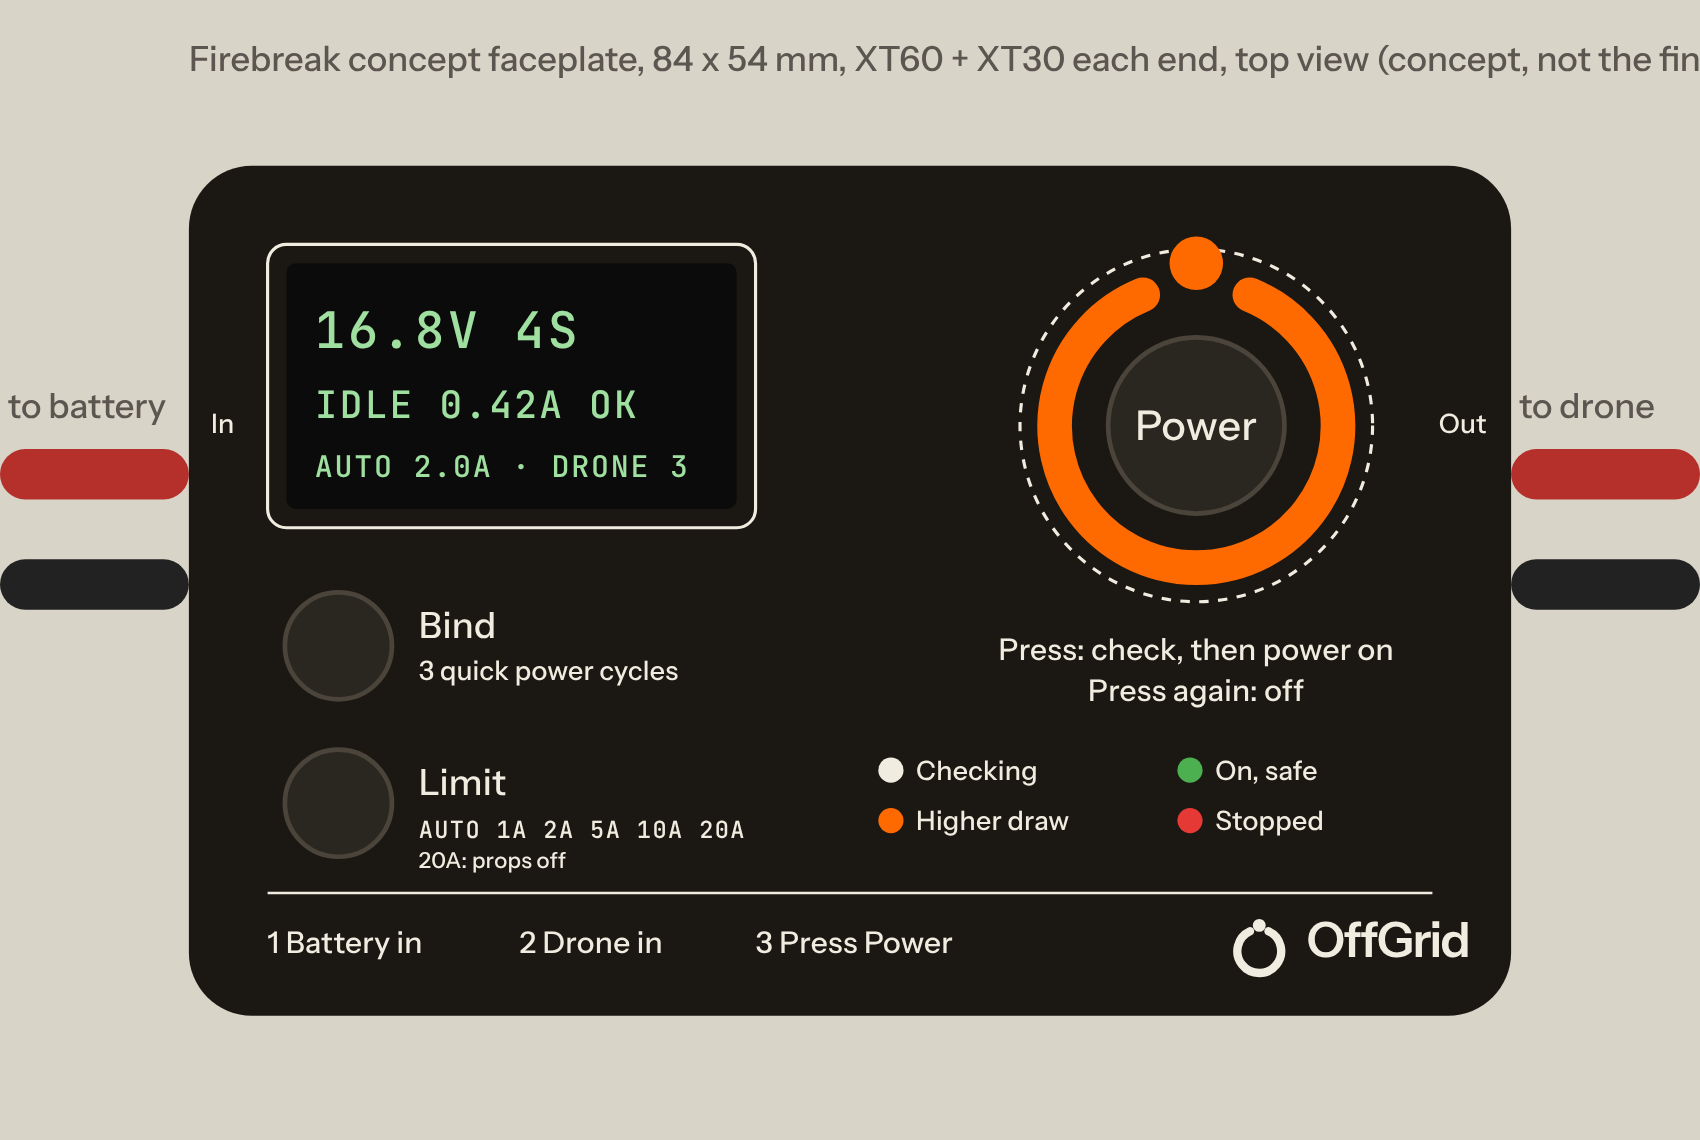
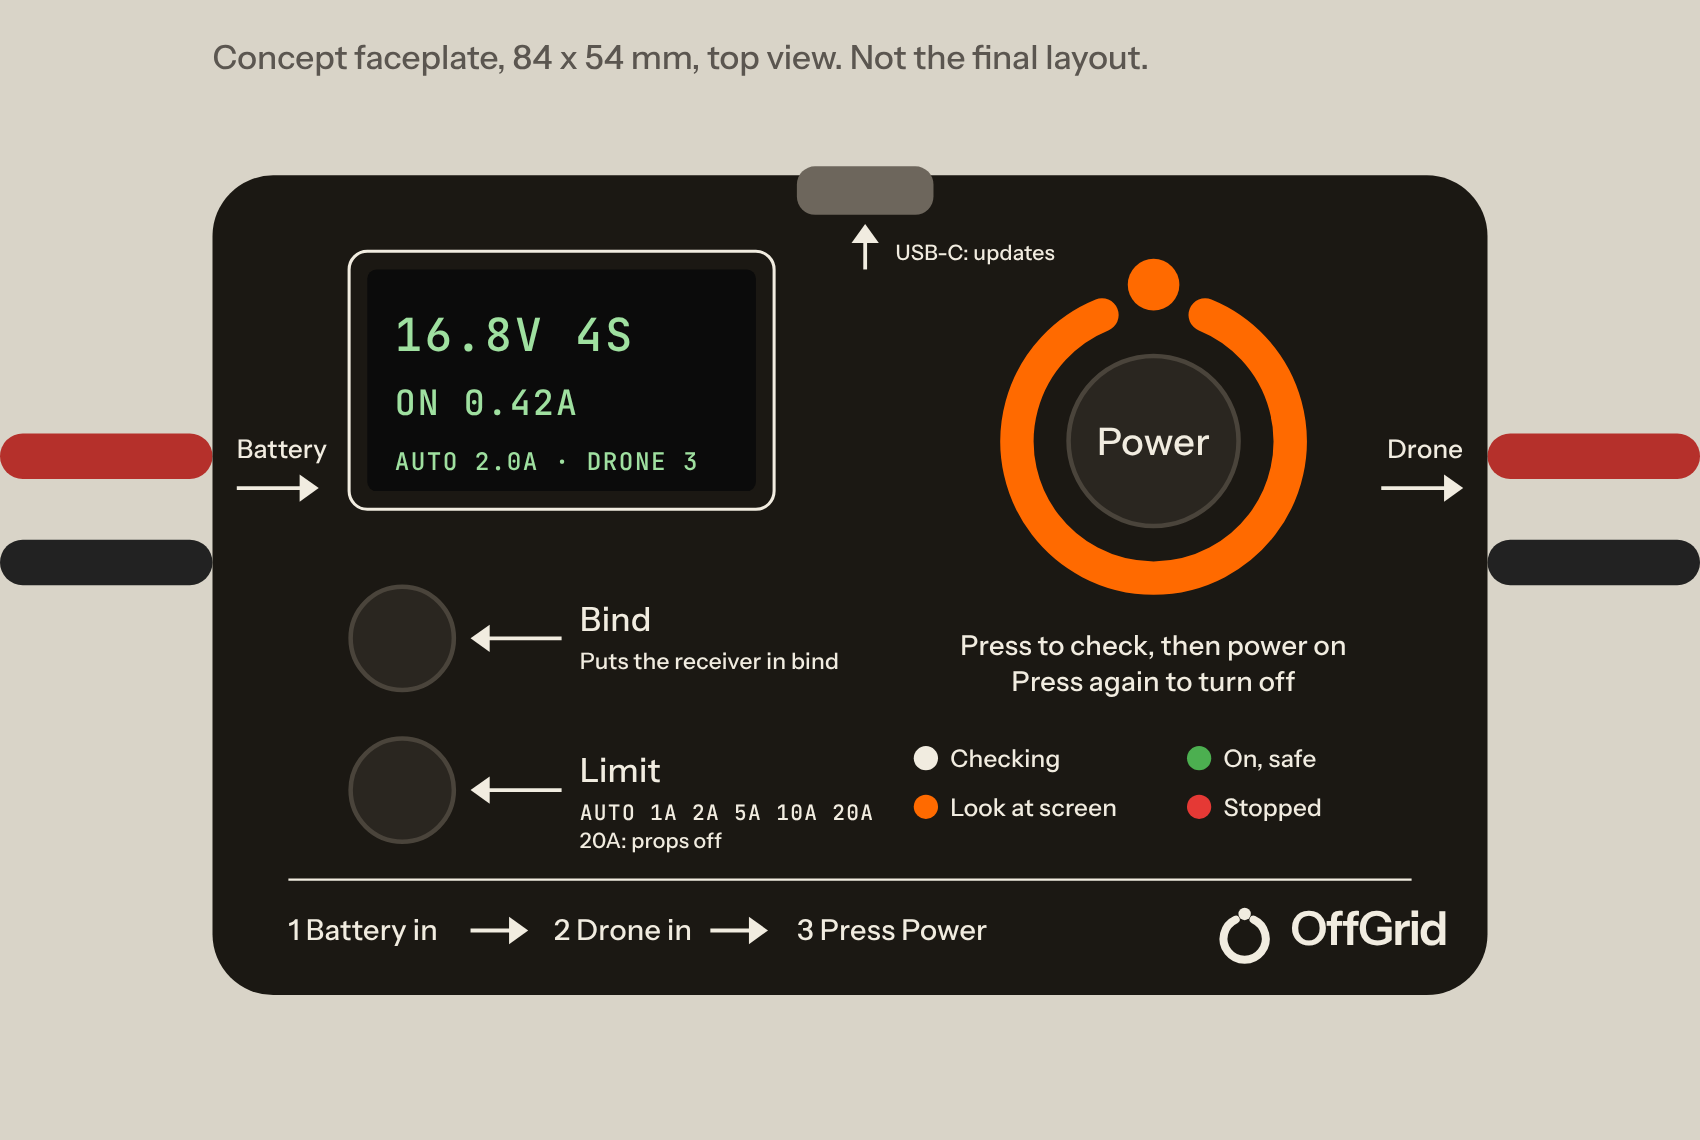
firebreak: arrows on the face, one brand arrow for every instruction
Battery in and drone out at the ends, label-to-button arrows for Bind and
Limit, USB-C on the back edge, the three steps joined by arrows. The
concept render is now generated by images/concept_faceplate.py.

Claude-Session: https://claude.ai/code/session_01SBnFJLvm1wBa1jZy4RXnma

diff --git a/firebreak/images/concept-faceplate.html b/firebreak/images/concept-faceplate.html
@@ -1,76 +1,55 @@
 <!doctype html>
 <html><head><meta charset="utf-8">
-<!-- Concept render. Fonts come from ridge-3/fonts (branch claude/fpv-stack-3in). Render: chromium --headless --screenshot -->
 <style>
-@font-face{font-family:IS;src:url(../../ridge-3/fonts/InstrumentSans-VariableFont.ttf);}
-@font-face{font-family:JB;src:url(../../ridge-3/fonts/JetBrainsMono-VariableFont.ttf);}
+@font-face{font-family:IS;src:url(/tmp/claude-0/-home-user-offgrid-hardware/bb4d9657-83a6-5d9a-b4a3-ba3efc9cb84f/scratchpad/ref/InstrumentSans-VariableFont.ttf);}
+@font-face{font-family:JB;src:url(/tmp/claude-0/-home-user-offgrid-hardware/bb4d9657-83a6-5d9a-b4a3-ba3efc9cb84f/scratchpad/ref/JetBrainsMono-VariableFont.ttf);}
 html,body{margin:0;background:#d9d4c8;}
 svg{display:block}
-.s{font-family:IS;font-weight:500;fill:#F1ECE0;letter-spacing:.01em}
-.m{font-family:JB;font-weight:500;fill:#F1ECE0;letter-spacing:.06em}
-.dim{font-family:IS;font-weight:500;fill:#5b5650;font-size:2.2px}
+.s{font-family:IS;letter-spacing:.01em}
+.m{font-family:JB;letter-spacing:.06em}
 </style></head><body>
-<!-- 1 user unit = 1 mm. Board 84 x 54 mm, XT60 + XT30 each end, seen from above; battery enters left, drone leaves right -->
-<svg width="1700" height="1150" viewBox="-12 -10 108 72">
-  <!-- cables, for orientation only -->
-  <rect x="-12" y="18" width="12" height="3.2" rx="1.6" fill="#b5302b"/>
-  <rect x="-12" y="25" width="12" height="3.2" rx="1.6" fill="#222"/>
-  <rect x="84" y="18" width="12" height="3.2" rx="1.6" fill="#b5302b"/>
-  <rect x="84" y="25" width="12" height="3.2" rx="1.6" fill="#222"/>
-  <text class="dim" x="-11.5" y="16">to battery</text>
-  <text class="dim" x="84.5" y="16">to drone</text>
-  <text class="dim" x="0" y="-6">Firebreak concept faceplate, 84 x 54 mm, XT60 + XT30 each end, top view (concept, not the final layout)</text>
-
-  <!-- board -->
-  <rect x="0" y="0" width="84" height="54" rx="4" fill="#1B1813"/>
-
-  <!-- display window -->
-  <rect x="5" y="5" width="31" height="18" rx="1.2" fill="none" stroke="#F1ECE0" stroke-width="0.2"/>
-  <rect x="6.2" y="6.2" width="28.6" height="15.6" rx="0.6" fill="#0b0b0b"/>
-  <text class="m" x="8" y="11.6" font-size="3.2" style="fill:#9fe0a0">16.8V  4S</text>
-  <text class="m" x="8" y="16" font-size="2.4" style="fill:#9fe0a0">IDLE 0.42A  OK</text>
-  <text class="m" x="8" y="19.8" font-size="1.9" style="fill:#9fe0a0">AUTO 2.0A · DRONE 3</text>
-
-  <!-- Bind button -->
-  <circle cx="9.5" cy="30.5" r="3.4" fill="#2a2620" stroke="#4a443b" stroke-width="0.3"/>
-  <text class="s" x="14.6" y="30" font-size="2.3">Bind</text>
-  <text class="s" x="14.6" y="32.7" font-size="1.7">3 quick power cycles</text>
-  <!-- Limit button -->
-  <circle cx="9.5" cy="40.5" r="3.4" fill="#2a2620" stroke="#4a443b" stroke-width="0.3"/>
-  <text class="s" x="14.6" y="40" font-size="2.3">Limit</text>
-  <text class="m" x="14.6" y="42.7" font-size="1.5">AUTO 1A 2A 5A 10A 20A</text><text class="s" x="14.6" y="44.6" font-size="1.4">20A: props off</text>
-
-  <!-- Beacon Ring power button -->
-  <g transform="translate(64,16.5)">
-    <circle r="11.2" fill="none" stroke="#F1ECE0" stroke-width="0.2" stroke-dasharray="0.6 0.6"/>
-    <path d="M 3.4 -8.3 A 9 9 0 1 1 -3.4 -8.3" fill="none" stroke="#FF6A00" stroke-width="2.2" stroke-linecap="round"/>
-    <circle cx="0" cy="-10.3" r="1.7" fill="#FF6A00"/>
-    <circle r="5.6" fill="#2a2620" stroke="#4a443b" stroke-width="0.3"/>
-    <text class="s" x="0" y="0.9" font-size="2.6" text-anchor="middle">Power</text>
-  </g>
-  <text class="s" x="64" y="31.4" font-size="1.9" text-anchor="middle">Press: check, then power on</text>
-  <text class="s" x="64" y="34" font-size="1.9" text-anchor="middle">Press again: off</text>
-
-  <!-- ring colour legend -->
-  <g font-size="1.7">
-    <circle cx="44.6" cy="38.4" r="0.8" fill="#F1ECE0"/><text class="s" x="46.2" y="39">Checking</text>
-    <circle cx="63.6" cy="38.4" r="0.8" fill="#4caf50"/><text class="s" x="65.2" y="39">On, safe</text>
-    <circle cx="44.6" cy="41.6" r="0.8" fill="#FF6A00"/><text class="s" x="46.2" y="42.2">Higher draw</text>
-    <circle cx="63.6" cy="41.6" r="0.8" fill="#e53935"/><text class="s" x="65.2" y="42.2">Stopped</text>
-  </g>
-
-  <!-- steps -->
-  <line x1="5" y1="46.2" x2="79" y2="46.2" stroke="#F1ECE0" stroke-width="0.15"/>
-  <text class="s" x="5" y="50" font-size="1.9">1  Battery in</text><text class="s" x="21" y="50" font-size="1.9">2  Drone in</text><text class="s" x="36" y="50" font-size="1.9">3  Press Power</text>
-
-  <!-- lockup -->
-  <g transform="translate(65.6,47.3) scale(0.024)">
-    <path d="M124.5 55.4 A58 58 0 1 1 75.5 55.4" fill="none" stroke="#F1ECE0" stroke-width="22" stroke-linecap="round"/>
-    <circle cx="100" cy="40" r="17" fill="#F1ECE0"/>
-  </g>
-  <text x="71" y="50.3" font-family="IS" font-weight="600" font-size="3.1" fill="#F1ECE0" letter-spacing="-0.1">OffGrid</text>
-
-  <text class="s" x="1.4" y="17" font-size="1.7">In</text>
-  <text class="s" x="79.4" y="17" font-size="1.7">Out</text>
-</svg>
-</body></html>
+<svg width="1700" height="1140" viewBox="-14 -11 112 74">
+<text x="0" y="-7" font-family="IS" font-weight="500" font-size="2.2" fill="#5b5650">Concept faceplate, 84 x 54 mm, top view. Not the final layout.</text>
+<rect x="-14" y="17" width="14" height="3" rx="1.5" fill="#b5302b"/><rect x="-14" y="24" width="14" height="3" rx="1.5" fill="#222"/><rect x="84.0" y="17" width="14" height="3" rx="1.5" fill="#b5302b"/><rect x="84.0" y="24" width="14" height="3" rx="1.5" fill="#222"/>
+<rect x="0" y="0" width="84.0" height="54.0" rx="4" fill="#1B1813"/>
+<text class="s" x="1.6" y="18.6" font-size="1.7" text-anchor="start" font-weight="500" style="fill:#F1ECE0">Battery</text>
+<line x1="1.600" y1="20.600" x2="5.866" y2="20.600" stroke="#F1ECE0" stroke-width="0.25" stroke-linecap="butt"/><polygon points="7.000,20.600 5.740,21.500 5.740,19.700" fill="#F1ECE0"/>
+<text class="s" x="82.4" y="18.6" font-size="1.7" text-anchor="end" font-weight="500" style="fill:#F1ECE0">Drone</text>
+<line x1="77.000" y1="20.600" x2="81.266" y2="20.600" stroke="#F1ECE0" stroke-width="0.25" stroke-linecap="butt"/><polygon points="82.400,20.600 81.140,21.500 81.140,19.700" fill="#F1ECE0"/>
+<rect x="38.5" y="-0.6" width="9" height="3.2" rx="1.2" fill="#6d665c"/>
+<line x1="43.000" y1="6.200" x2="43.000" y2="4.334" stroke="#F1ECE0" stroke-width="0.25" stroke-linecap="butt"/><polygon points="43.000,3.200 43.900,4.460 42.100,4.460" fill="#F1ECE0"/>
+<text class="s" x="45.0" y="5.6" font-size="1.4" text-anchor="start" font-weight="500" style="fill:#F1ECE0">USB-C: updates</text>
+<rect x="9" y="5" width="28" height="17" rx="1.2" fill="none" stroke="#F1ECE0" stroke-width="0.2"/>
+<rect x="10.2" y="6.2" width="25.6" height="14.6" rx="0.6" fill="#0b0b0b"/>
+<text class="m" x="12" y="11.6" font-size="3.0" text-anchor="start" font-weight="500" style="fill:#9fe0a0">16.8V  4S</text>
+<text class="m" x="12" y="15.8" font-size="2.3" text-anchor="start" font-weight="500" style="fill:#9fe0a0">ON  0.42A</text>
+<text class="m" x="12" y="19.4" font-size="1.6" text-anchor="start" font-weight="500" style="fill:#9fe0a0">AUTO 2.0A · DRONE 3</text>
+<g transform="translate(62.0,17.5)"><path d="M 3.4 -8.3 A 9 9 0 1 1 -3.4 -8.3" fill="none" stroke="#FF6A00" stroke-width="2.2" stroke-linecap="round"/><circle cx="0" cy="-10.3" r="1.7" fill="#FF6A00"/><circle r="5.6" fill="#2a2620" stroke="#4a443b" stroke-width="0.3"/><text class="s" x="0" y="0.9" font-size="2.5" text-anchor="middle" font-weight="500" style="fill:#F1ECE0">Power</text></g>
+<text class="s" x="62.0" y="31.6" font-size="1.8" text-anchor="middle" font-weight="500" style="fill:#F1ECE0">Press to check, then power on</text>
+<text class="s" x="62.0" y="34.0" font-size="1.8" text-anchor="middle" font-weight="500" style="fill:#F1ECE0">Press again to turn off</text>
+<circle cx="12.5" cy="30.5" r="3.4" fill="#2a2620" stroke="#4a443b" stroke-width="0.3"/>
+<line x1="23.000" y1="30.500" x2="18.134" y2="30.500" stroke="#F1ECE0" stroke-width="0.25" stroke-linecap="butt"/><polygon points="17.000,30.500 18.260,29.600 18.260,31.400" fill="#F1ECE0"/>
+<text class="s" x="24.2" y="30.0" font-size="2.2" text-anchor="start" font-weight="500" style="fill:#F1ECE0">Bind</text>
+<text class="s" x="24.2" y="32.5" font-size="1.5" text-anchor="start" font-weight="500" style="fill:#F1ECE0">Puts the receiver in bind</text>
+<circle cx="12.5" cy="40.5" r="3.4" fill="#2a2620" stroke="#4a443b" stroke-width="0.3"/>
+<line x1="23.000" y1="40.500" x2="18.134" y2="40.500" stroke="#F1ECE0" stroke-width="0.25" stroke-linecap="butt"/><polygon points="17.000,40.500 18.260,39.600 18.260,41.400" fill="#F1ECE0"/>
+<text class="s" x="24.2" y="40.0" font-size="2.2" text-anchor="start" font-weight="500" style="fill:#F1ECE0">Limit</text>
+<text class="m" x="24.2" y="42.5" font-size="1.4" text-anchor="start" font-weight="500" style="fill:#F1ECE0">AUTO 1A 2A 5A 10A 20A</text>
+<text class="s" x="24.2" y="44.3" font-size="1.4" text-anchor="start" font-weight="500" style="fill:#F1ECE0">20A: props off</text>
+<circle cx="47.0" cy="38.4" r="0.8" fill="#F1ECE0"/>
+<text class="s" x="48.6" y="39.0" font-size="1.6" text-anchor="start" font-weight="500" style="fill:#F1ECE0">Checking</text>
+<circle cx="65.0" cy="38.4" r="0.8" fill="#4caf50"/>
+<text class="s" x="66.6" y="39.0" font-size="1.6" text-anchor="start" font-weight="500" style="fill:#F1ECE0">On, safe</text>
+<circle cx="47.0" cy="41.6" r="0.8" fill="#FF6A00"/>
+<text class="s" x="48.6" y="42.2" font-size="1.6" text-anchor="start" font-weight="500" style="fill:#F1ECE0">Look at screen</text>
+<circle cx="65.0" cy="41.6" r="0.8" fill="#e53935"/>
+<text class="s" x="66.6" y="42.2" font-size="1.6" text-anchor="start" font-weight="500" style="fill:#F1ECE0">Stopped</text>
+<line x1="5" y1="46.4" x2="79.0" y2="46.4" stroke="#F1ECE0" stroke-width="0.15"/>
+<text class="s" x="5.0" y="50.4" font-size="1.9" text-anchor="start" font-weight="500" style="fill:#F1ECE0">1  Battery in</text>
+<text class="s" x="22.5" y="50.4" font-size="1.9" text-anchor="start" font-weight="500" style="fill:#F1ECE0">2  Drone in</text>
+<text class="s" x="38.5" y="50.4" font-size="1.9" text-anchor="start" font-weight="500" style="fill:#F1ECE0">3  Press Power</text>
+<line x1="17.000" y1="49.750" x2="19.666" y2="49.750" stroke="#F1ECE0" stroke-width="0.25" stroke-linecap="butt"/><polygon points="20.800,49.750 19.540,50.650 19.540,48.850" fill="#F1ECE0"/>
+<line x1="32.800" y1="49.750" x2="35.466" y2="49.750" stroke="#F1ECE0" stroke-width="0.25" stroke-linecap="butt"/><polygon points="36.600,49.750 35.340,50.650 35.340,48.850" fill="#F1ECE0"/>
+<g transform="translate(65.6,47.7) scale(0.024)"><path d="M124.5 55.4 A58 58 0 1 1 75.5 55.4" fill="none" stroke="#F1ECE0" stroke-width="22" stroke-linecap="round"/><circle cx="100" cy="40" r="17" fill="#F1ECE0"/></g>
+<text x="71" y="50.7" font-family="IS" font-weight="600" font-size="3.1" fill="#F1ECE0" letter-spacing="-0.1">OffGrid</text>
+</svg></body></html>

diff --git a/firebreak/images/concept_faceplate.py b/firebreak/images/concept_faceplate.py
@@ -1,0 +1,156 @@
+"""Concept render of the faceplate: writes concept-faceplate.html, then
+renders it to concept-faceplate.png with headless Chromium.
+
+A sketch of what the silkscreen says and where, in the brand's colours and
+type. It is not the board: the final layout comes from the generator.
+
+    python3 concept_faceplate.py [path/to/chromium]
+
+Fonts: ridge-3/fonts (branch claude/fpv-stack-3in), looked up beside this
+repository's root or in FONTS_DIR.
+"""
+import os
+import subprocess
+import sys
+
+HERE = os.path.dirname(os.path.abspath(__file__))
+FONTS = os.environ.get('FONTS_DIR', os.path.join(HERE, '..', '..', 'ridge-3', 'fonts'))
+
+PITCH, BONE, EMBER = '#1B1813', '#F1ECE0', '#FF6A00'
+W, H = 84.0, 54.0                     # board, mm
+
+# The brand arrow (ridge-3/src/brand.py arrow_mm): a flat 0.25 mm shaft and
+# a solid head 0.9 mm each side of the shaft, 1.26 mm long.  One arrow, the
+# same everywhere it is printed, so it always reads the same.
+SHAFT, HEAD = 0.25, 0.9
+HEAD_L = HEAD * 1.4
+
+
+def arrow(x0, y0, x1, y1, colour=BONE):
+    """Brand arrow from (x0, y0) to its tip at (x1, y1)."""
+    import math
+    d = math.hypot(x1 - x0, y1 - y0)
+    ux, uy = (x1 - x0) / d, (y1 - y0) / d
+    px, py = -uy, ux
+    bx, by = x1 - ux * HEAD_L, y1 - uy * HEAD_L
+    sx, sy = x1 - ux * HEAD_L * 0.9, y1 - uy * HEAD_L * 0.9
+    shaft = (f'<line x1="{x0:.3f}" y1="{y0:.3f}" x2="{sx:.3f}" y2="{sy:.3f}" '
+             f'stroke="{colour}" stroke-width="{SHAFT}" stroke-linecap="butt"/>')
+    head = (f'<polygon points="{x1:.3f},{y1:.3f} {bx + px * HEAD:.3f},{by + py * HEAD:.3f} '
+            f'{bx - px * HEAD:.3f},{by - py * HEAD:.3f}" fill="{colour}"/>')
+    return shaft + head
+
+
+def text(x, y, s, size, mono=False, anchor='start', colour=BONE, weight=500):
+    cls = 'm' if mono else 's'
+    return (f'<text class="{cls}" x="{x}" y="{y}" font-size="{size}" text-anchor="{anchor}" '
+            f'font-weight="{weight}" style="fill:{colour}">{s}</text>')
+
+
+def button(cx, cy, r):
+    return (f'<circle cx="{cx}" cy="{cy}" r="{r}" fill="#2a2620" stroke="#4a443b" stroke-width="0.3"/>')
+
+
+def face():
+    o = []
+    # the board
+    o.append(f'<rect x="0" y="0" width="{W}" height="{H}" rx="4" fill="{PITCH}"/>')
+
+    # -- the power path, edge to edge: Battery -> | -> Drone ------------------
+    o.append(text(1.6, 18.6, 'Battery', 1.7))
+    o.append(arrow(1.6, 20.6, 7.0, 20.6))
+    o.append(text(W - 1.6, 18.6, 'Drone', 1.7, anchor='end'))
+    o.append(arrow(W - 7.0, 20.6, W - 1.6, 20.6))
+
+    # -- USB-C on the back edge -------------------------------------------------
+    o.append(f'<rect x="38.5" y="-0.6" width="9" height="3.2" rx="1.2" fill="#6d665c"/>')
+    o.append(arrow(43.0, 6.2, 43.0, 3.2))
+    o.append(text(45.0, 5.6, 'USB-C: updates', 1.4))
+
+    # -- screen ----------------------------------------------------------------
+    o.append(f'<rect x="9" y="5" width="28" height="17" rx="1.2" fill="none" stroke="{BONE}" stroke-width="0.2"/>')
+    o.append('<rect x="10.2" y="6.2" width="25.6" height="14.6" rx="0.6" fill="#0b0b0b"/>')
+    green = '#9fe0a0'
+    o.append(text(12, 11.6, '16.8V  4S', 3.0, mono=True, colour=green))
+    o.append(text(12, 15.8, 'ON  0.42A', 2.3, mono=True, colour=green))
+    o.append(text(12, 19.4, 'AUTO 2.0A · DRONE 3', 1.6, mono=True, colour=green))
+
+    # -- Power: the Beacon Ring --------------------------------------------------
+    cx, cy = 62.0, 17.5
+    o.append(f'<g transform="translate({cx},{cy})">'
+             f'<path d="M 3.4 -8.3 A 9 9 0 1 1 -3.4 -8.3" fill="none" stroke="{EMBER}" '
+             f'stroke-width="2.2" stroke-linecap="round"/>'
+             f'<circle cx="0" cy="-10.3" r="1.7" fill="{EMBER}"/>'
+             f'<circle r="5.6" fill="#2a2620" stroke="#4a443b" stroke-width="0.3"/>'
+             + text(0, 0.9, 'Power', 2.5, anchor='middle') + '</g>')
+    o.append(text(cx, 31.6, 'Press to check, then power on', 1.8, anchor='middle'))
+    o.append(text(cx, 34.0, 'Press again to turn off', 1.8, anchor='middle'))
+
+    # -- Bind and Limit: an arrow from each label to its button ----------------
+    o.append(button(12.5, 30.5, 3.4))
+    o.append(arrow(23.0, 30.5, 17.0, 30.5))
+    o.append(text(24.2, 30.0, 'Bind', 2.2))
+    o.append(text(24.2, 32.5, 'Puts the receiver in bind', 1.5))
+    o.append(button(12.5, 40.5, 3.4))
+    o.append(arrow(23.0, 40.5, 17.0, 40.5))
+    o.append(text(24.2, 40.0, 'Limit', 2.2))
+    o.append(text(24.2, 42.5, 'AUTO 1A 2A 5A 10A 20A', 1.4, mono=True))
+    o.append(text(24.2, 44.3, '20A: props off', 1.4))
+
+    # -- ring legend --------------------------------------------------------------
+    for (x, y, c, s) in ((47.0, 38.4, BONE, 'Checking'), (65.0, 38.4, '#4caf50', 'On, safe'),
+                         (47.0, 41.6, EMBER, 'Look at screen'), (65.0, 41.6, '#e53935', 'Stopped')):
+        o.append(f'<circle cx="{x}" cy="{y}" r="0.8" fill="{c}"/>')
+        o.append(text(x + 1.6, y + 0.6, s, 1.6))
+
+    # -- the three steps, joined by arrows --------------------------------------
+    o.append(f'<line x1="5" y1="46.4" x2="{W - 5}" y2="46.4" stroke="{BONE}" stroke-width="0.15"/>')
+    y = 50.4
+    steps = [(5.0, '1  Battery in'), (22.5, '2  Drone in'), (38.5, '3  Press Power')]
+    for i, (x, s) in enumerate(steps):
+        o.append(text(x, y, s, 1.9))
+    o.append(arrow(17.0, y - 0.65, 20.8, y - 0.65))
+    o.append(arrow(32.8, y - 0.65, 36.6, y - 0.65))
+
+    # -- lockup ---------------------------------------------------------------------
+    o.append(f'<g transform="translate(65.6,47.7) scale(0.024)">'
+             f'<path d="M124.5 55.4 A58 58 0 1 1 75.5 55.4" fill="none" stroke="{BONE}" stroke-width="22" stroke-linecap="round"/>'
+             f'<circle cx="100" cy="40" r="17" fill="{BONE}"/></g>')
+    o.append(f'<text x="71" y="50.7" font-family="IS" font-weight="600" font-size="3.1" fill="{BONE}" letter-spacing="-0.1">OffGrid</text>')
+    return '\n'.join(o)
+
+
+def page():
+    leads = (f'<rect x="-14" y="17" width="14" height="3" rx="1.5" fill="#b5302b"/>'
+             f'<rect x="-14" y="24" width="14" height="3" rx="1.5" fill="#222"/>'
+             f'<rect x="{W}" y="17" width="14" height="3" rx="1.5" fill="#b5302b"/>'
+             f'<rect x="{W}" y="24" width="14" height="3" rx="1.5" fill="#222"/>')
+    note = ('<text x="0" y="-7" font-family="IS" font-weight="500" font-size="2.2" fill="#5b5650">'
+            'Concept faceplate, 84 x 54 mm, top view. Not the final layout.</text>')
+    return f'''<!doctype html>
+<html><head><meta charset="utf-8">
+<style>
+@font-face{{font-family:IS;src:url({FONTS}/InstrumentSans-VariableFont.ttf);}}
+@font-face{{font-family:JB;src:url({FONTS}/JetBrainsMono-VariableFont.ttf);}}
+html,body{{margin:0;background:#d9d4c8;}}
+svg{{display:block}}
+.s{{font-family:IS;letter-spacing:.01em}}
+.m{{font-family:JB;letter-spacing:.06em}}
+</style></head><body>
+<svg width="1700" height="1140" viewBox="-14 -11 112 74">
+{note}
+{leads}
+{face()}
+</svg></body></html>'''
+
+
+if __name__ == '__main__':
+    html = os.path.join(HERE, 'concept-faceplate.html')
+    with open(html, 'w') as f:
+        f.write(page())
+    chrome = sys.argv[1] if len(sys.argv) > 1 else 'chromium'
+    subprocess.run([chrome, '--headless=new', '--no-sandbox', '--disable-gpu',
+                    '--allow-file-access-from-files', '--hide-scrollbars',
+                    '--window-size=1700,1140',
+                    '--screenshot=' + os.path.join(HERE, 'concept-faceplate.png'),
+                    'file://' + html], check=True, capture_output=True)

diff --git a/firebreak/SPEC.md b/firebreak/SPEC.md
@@ -223,7 +223,7 @@ Limit again"). After 30 s at 20 A it drops back to the previous setting.
 |---|---|
 | White, turning | Checking |
 | Green | On, all good |
-| Ember (orange) | On, but something changed since last time — read the screen |
+| Ember (orange) | On, but something changed since last time — look at the screen |
 | Red, flashing | Stopped — read the screen |
 | Blue, pulsing | Bind sequence |
 
@@ -251,19 +251,40 @@ done. The beeper cannot be muted in v1: it is a safety device.
 | Battery reversed | Unplug it |
 | Battery low | 3.4 V per cell |
 
-### Silkscreen text (top face)
+### Silkscreen text and arrows (top face)
 
-Sentence case, Instrument Sans 500; numbers and units in JetBrains Mono
-500, uppercase (brand rules, as on Ridge 3).
+**Rule: noob-proof.** Someone who has never seen one should get it right
+first time from the face alone, without the manual. Arrows do most of
+the explaining; words are short and plain.
 
-- By the Power button: "Press: check, then power on" / "Press again: off"
-- By Bind: "Bind" / "3 quick power cycles"
-- By Limit: "Limit" / `AUTO 1A 2A 5A 10A 20A` / "20A: props off"
-- Legend: "Checking · On, safe · Higher draw · Stopped"
-- Bottom: "1 Battery in   2 Drone in   3 Press Power"
-- Ends: "In" (battery) and "Out" (drone), with arrows
-- "Bench use only. Do not fly with this attached."
+One arrow, used everywhere: the brand arrow from Ridge 3 (`arrow_mm` in
+`ridge-3/src/brand.py`), a thin flat 0.25 mm line with a solid head. Same
+size and shape wherever it is printed, so it always reads the same.
+Clean and quiet, never decorative.
+
+| Where | Arrow | Words |
+|---|---|---|
+| Left end, at the battery inputs | Points **into** the box | "Battery" |
+| Right end, at the drone leads | Points **out of** the box | "Drone" |
+| Back edge, at USB-C | Points to the port | "USB-C: updates" |
+| Bind button | From the label to the button | "Bind" / "Puts the receiver in bind" |
+| Limit button | From the label to the button | "Limit" / `AUTO 1A 2A 5A 10A 20A` / "20A: props off" |
+| Bottom strip | Between the steps | "1 Battery in → 2 Drone in → 3 Press Power" |
+
+The Power button needs no arrow: the ring is the biggest thing on the
+face. Under it: "Press to check, then power on" / "Press again to turn off".
+
+Also printed:
+
+- Ring legend: "Checking · On, safe · Look at screen · Stopped", each with
+  its colour dot.
+- "Bench use only. Do not fly with this attached." (on the case's end).
 - Lockup (mark + "OffGrid"), product name, `REV 1.0`, serial in mono.
+
+Type: sentence case, Instrument Sans 500; numbers and units in JetBrains
+Mono 500, uppercase (brand rules, as on Ridge 3).
+
+The concept render is made by `images/concept_faceplate.py`.
 
 ---
 
@@ -367,7 +388,7 @@ live output is always the female side, whose contacts are recessed.
   (MJF nylon, black); injection-moulded from the second batch.
 - **Ends:** XT60 and XT30 (male) through the left end with a rib between
   them; the two drone leads through clamped grommets on the right end;
-  USB-C on the front edge.
+  USB-C on the back edge, away from the leads.
 - **Underside:** rubber feet; fully closed so it cannot short on a
   conductive bench.
 - **Light pipe:** clear or frosted ring in the shape of the Beacon Ring,
